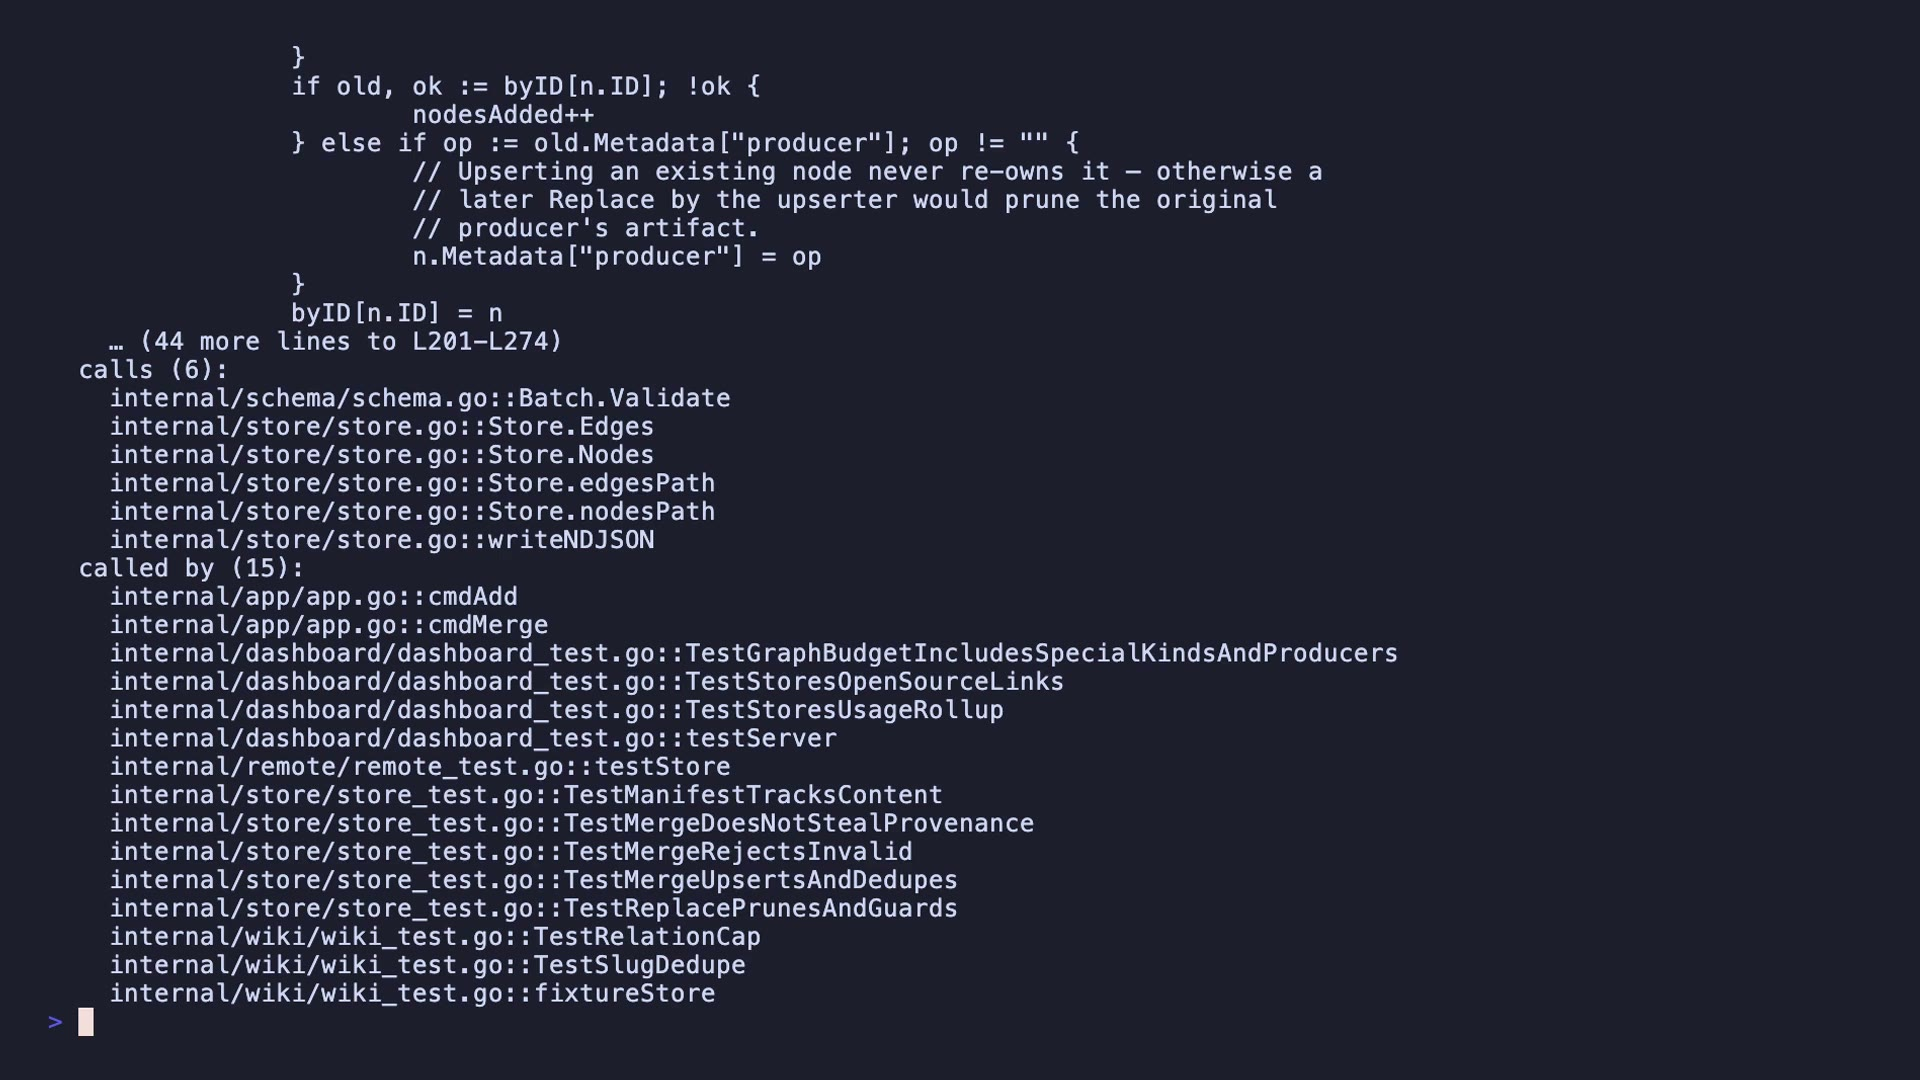
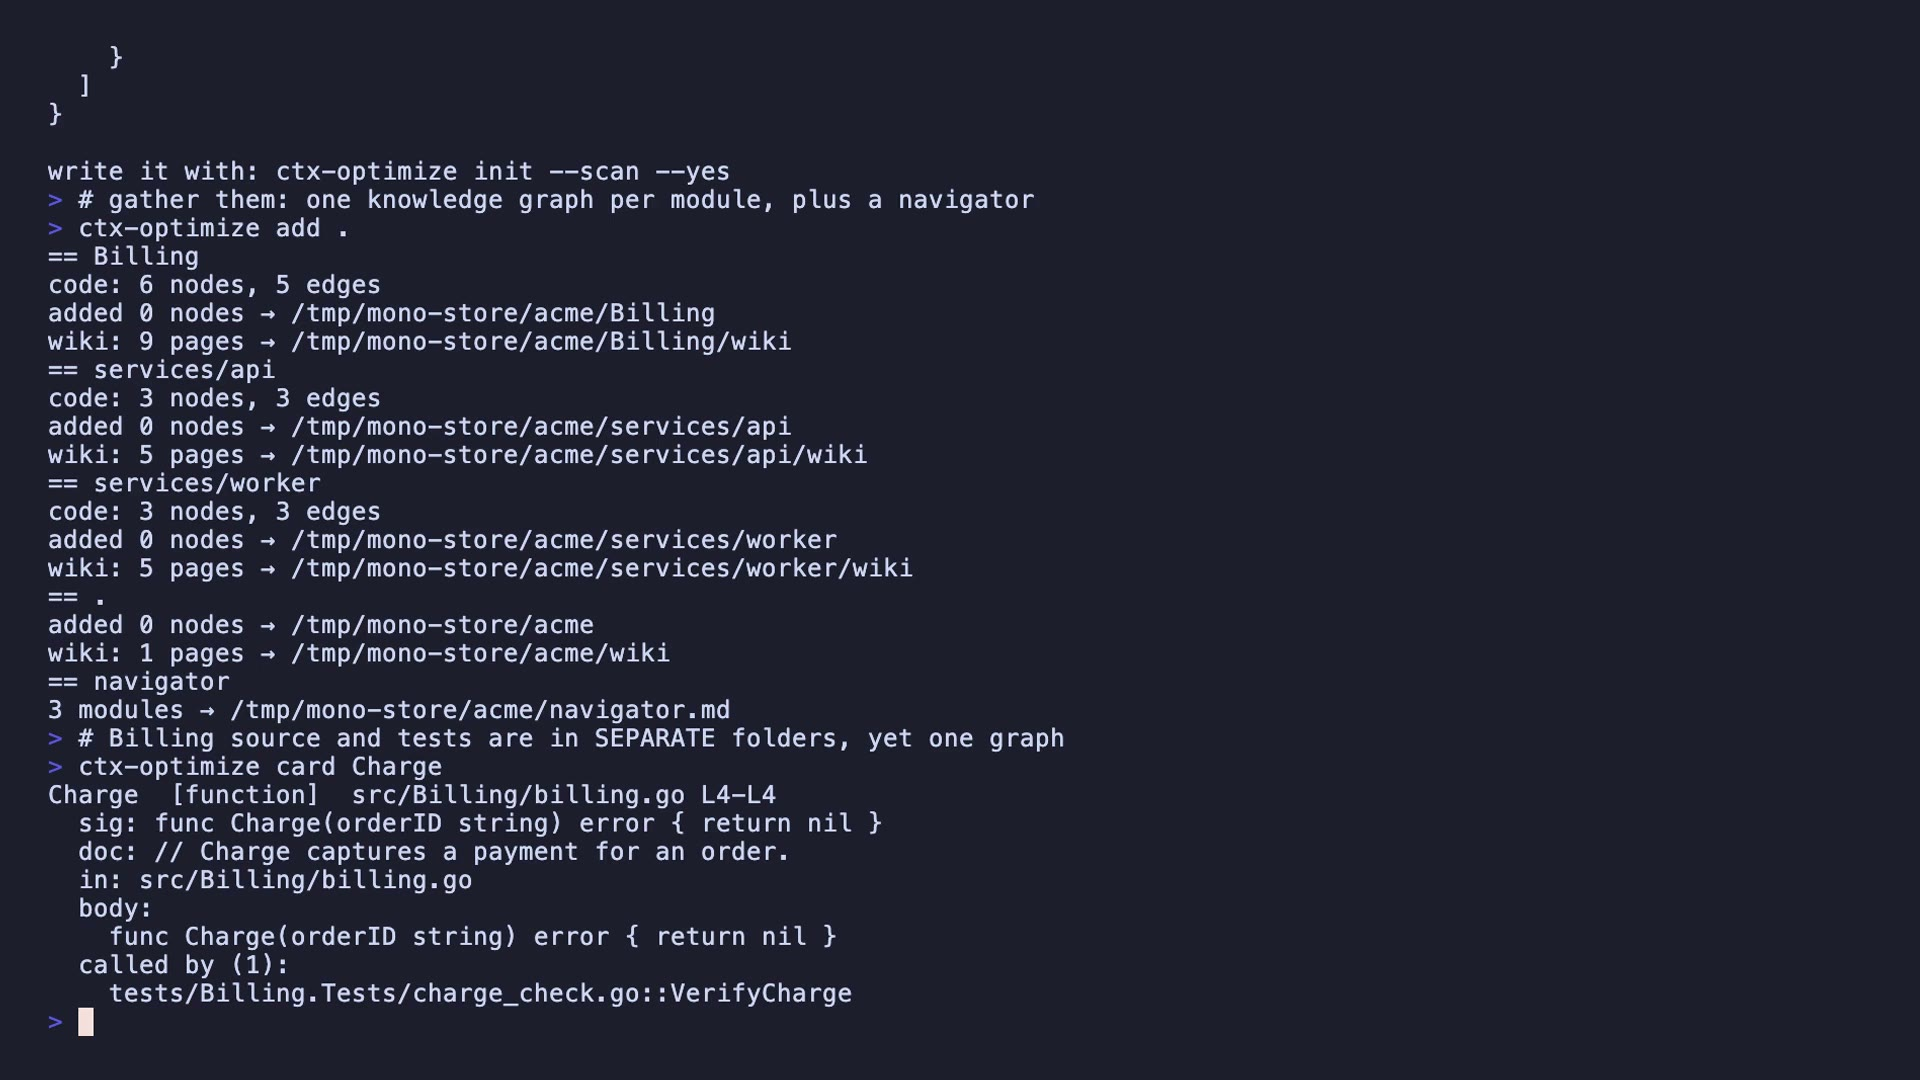
media(site): explainer is now a multi-module narrative (34s) — scan → fan-out add → cross-folder card → dashboard insights; real unedited output

Changed region(s): [[0.0312, 0.0611, 0.7188, 0.9472]]

diff --git a/index.html b/index.html
@@ -227,11 +227,11 @@ cd your-repo &amp;&amp; ctx-optimize init &amp;&amp; ctx-optimize add .   <span 
 </div></header>
 
 <section class="herodemo" id="watch" style="padding:80px 0 20px"><div class="wrap">
-  <div class="sec-kicker">watch it work · 90 seconds</div>
-  <h2 class="sec">A real Claude session — then the full flow, end to end.</h2>
-  <p class="sec-sub">Unedited, start to finish: Claude gathers the repo itself and answers a routing question with file-and-line citations — then the walkthrough shows <code>install --skills</code>, <code>init &amp;&amp; add .</code>, a symbol card (signature, doc, body, every caller, all cited with exact <b>file:line</b>), and the dashboard tallying the tokens and dollars it's saved.</p>
+  <div class="sec-kicker">watch it work · 34 seconds</div>
+  <h2 class="sec">A monorepo — one graph per module. Then see it all.</h2>
+  <p class="sec-sub">One real session, unedited: <code>scan</code> finds every module, <code>add</code> builds a knowledge graph for each with a navigator on top, and a symbol card proves that a module whose <b>source and tests live in separate folders</b> is still one graph — the test's call resolves straight to the source. Then the dashboard: every repo, every module, and the tokens it's saved.</p>
   <video src="media/explainer.mp4" controls preload="metadata" poster="media/explainer-poster.jpg" playsinline class="reveal"></video>
-  <p class="cap">Narrated · real, unedited output — <code>gin-gonic/gin</code> and <code>ctx-optimize</code>'s own source · every metric is from these runs</p>
+  <p class="cap">Narrated · real, unedited output · a monorepo with a module split across <code>src/</code> and <code>tests/</code></p>
 </div></section>
 
 <section class="getit" id="getstart" style="padding:70px 0 20px"><div class="wrap">